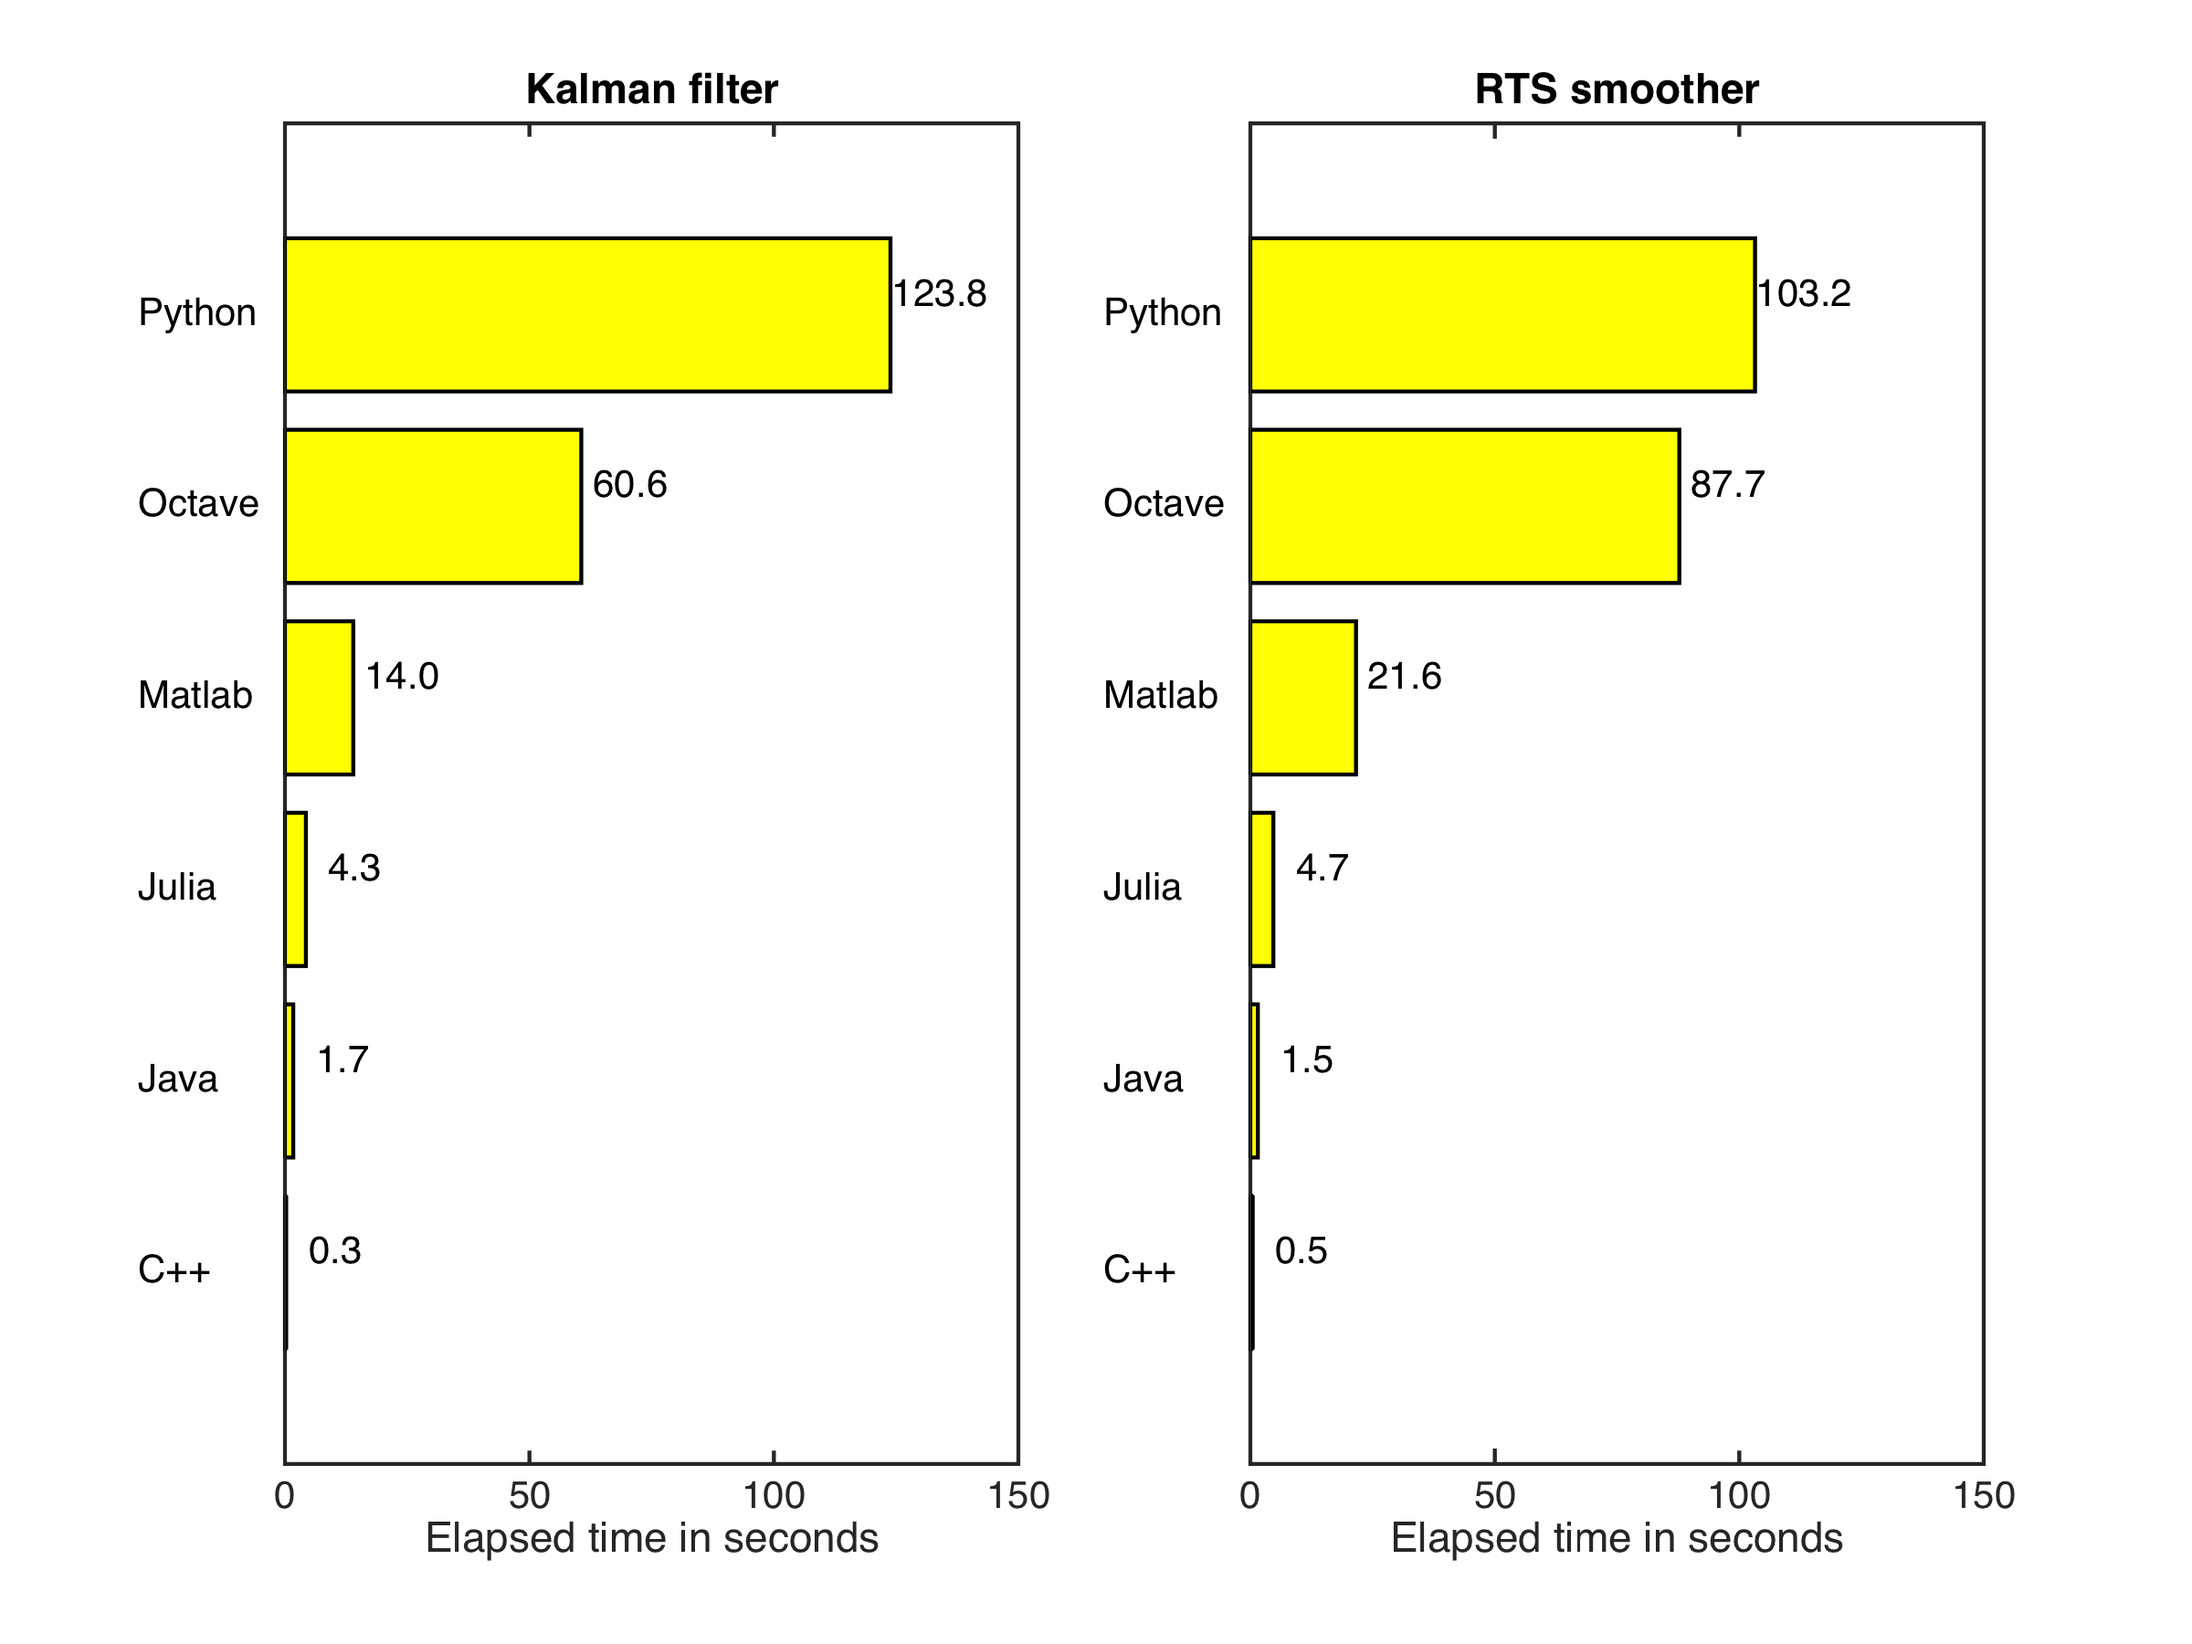
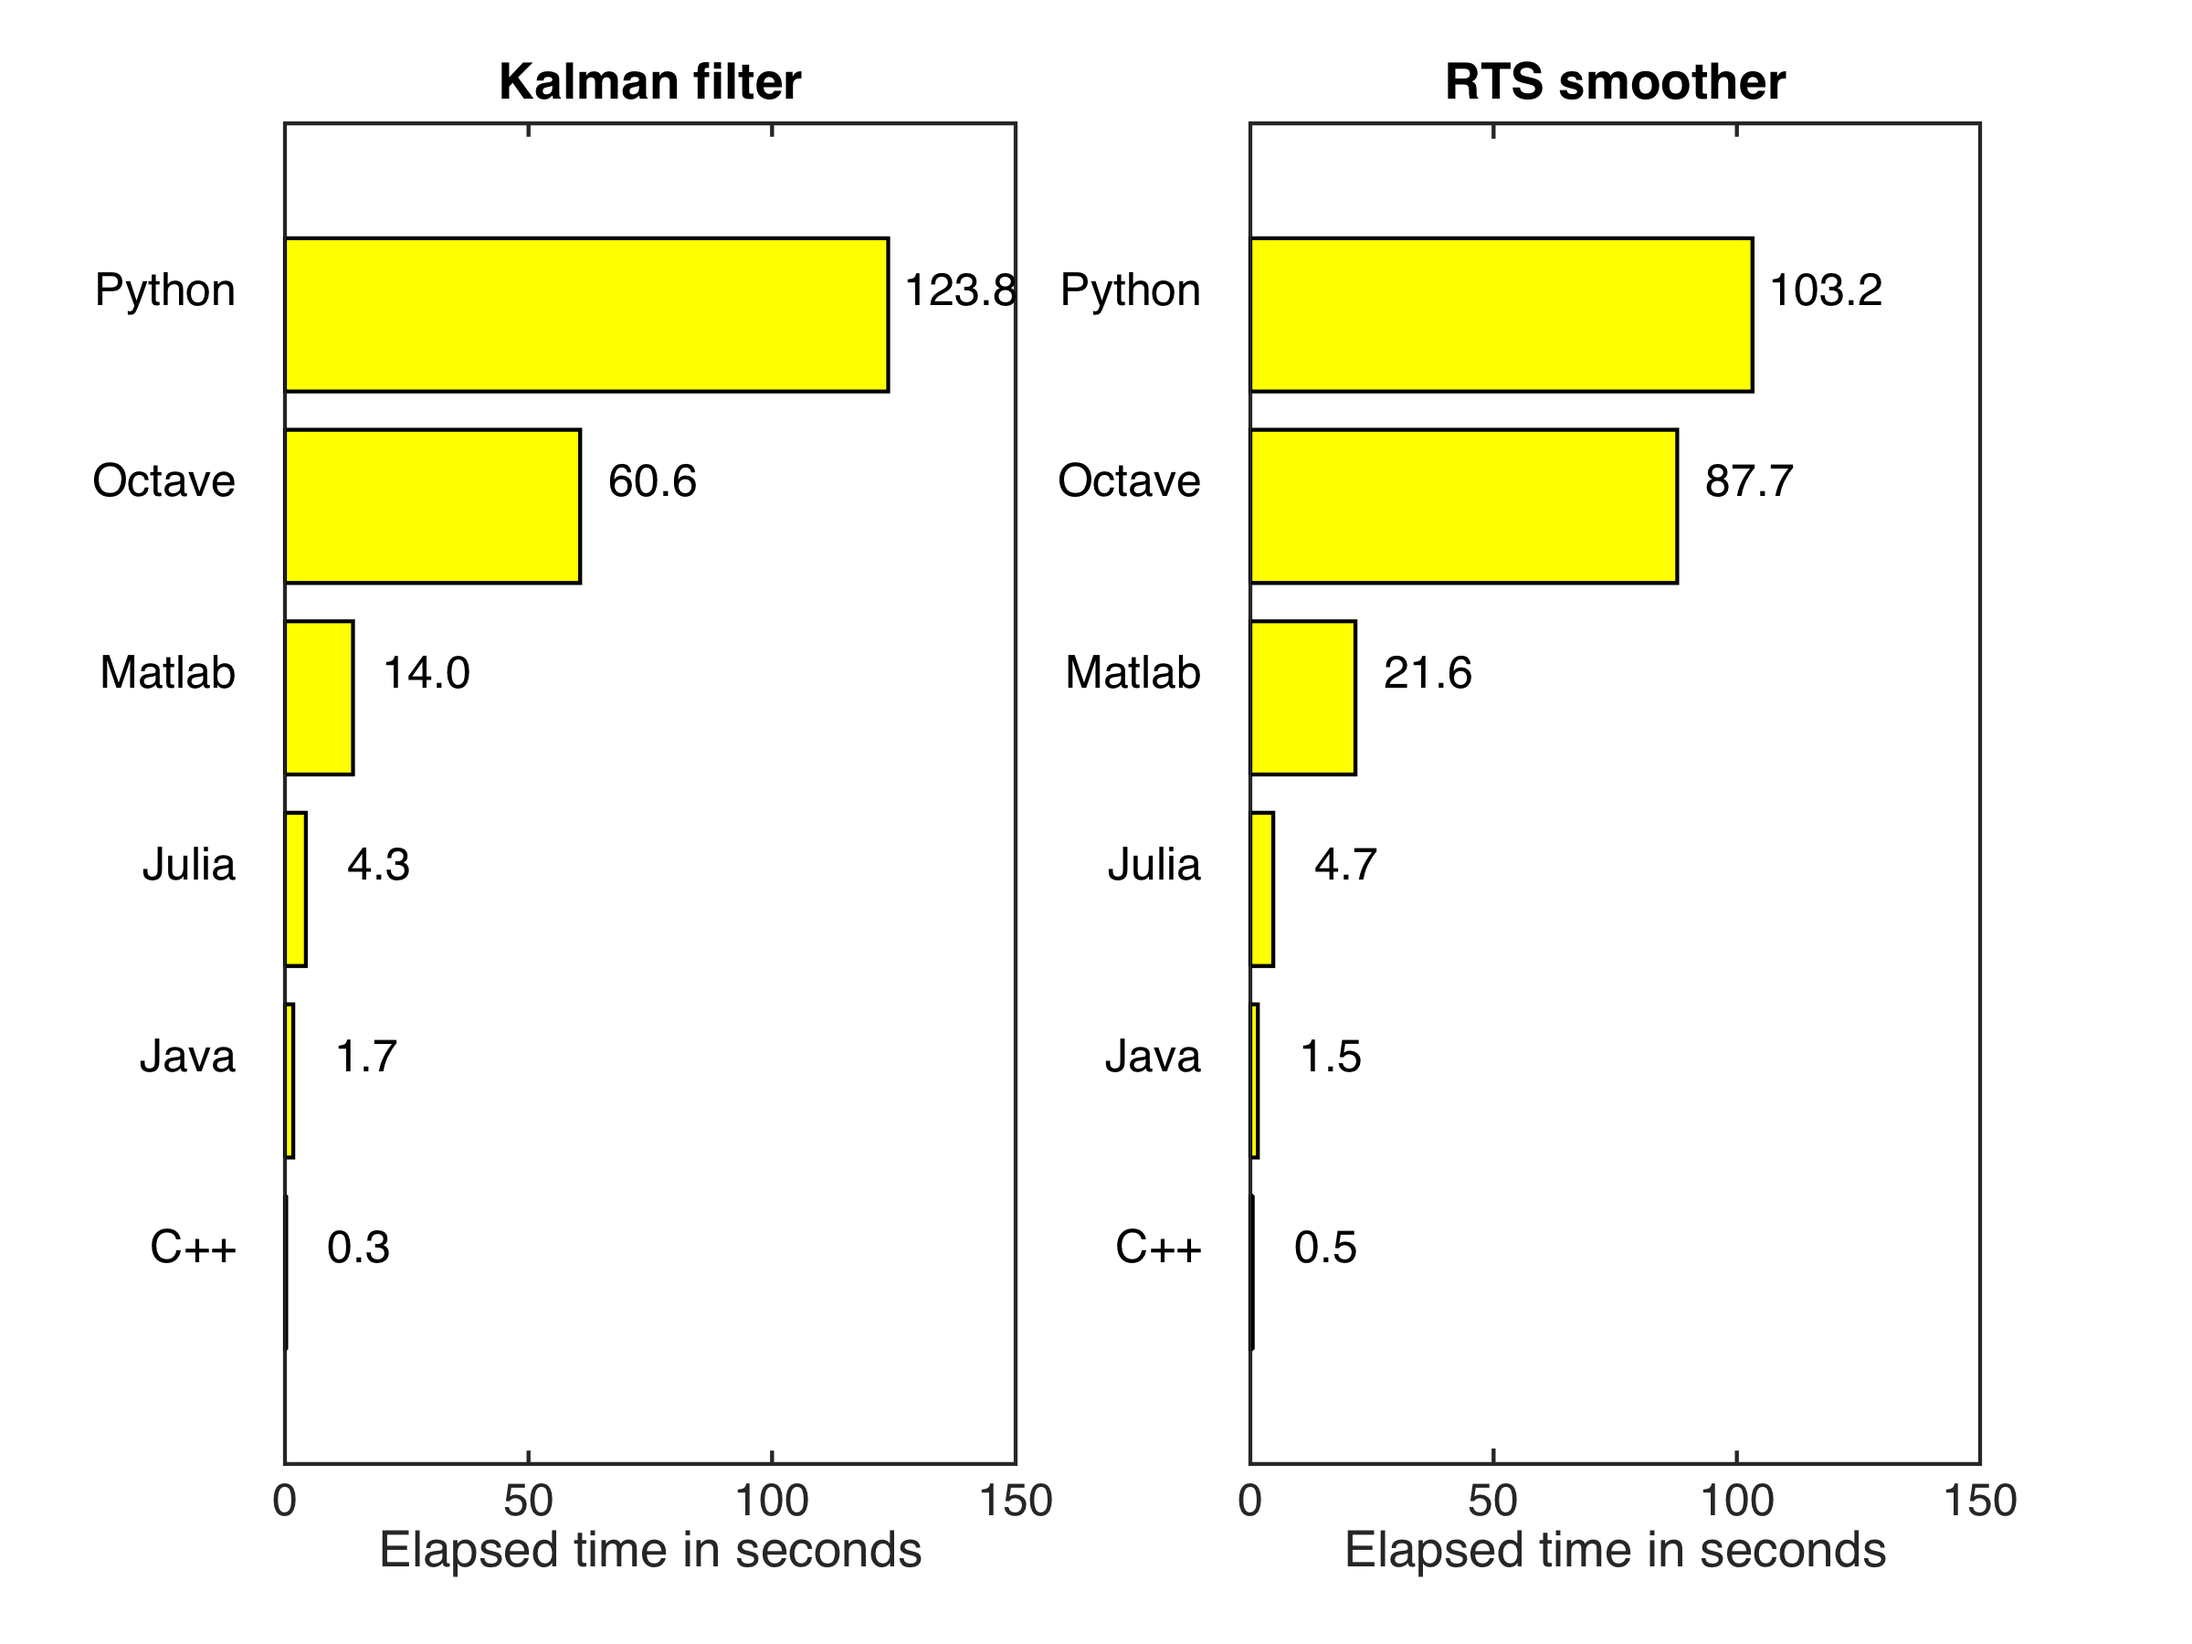
formatting and results

diff --git a/julialang-lecture.tex b/julialang-lecture.tex
@@ -1,5 +1,5 @@
-%\documentclass[xcolor=svgnames,english,presentation]{beamer}
-\documentclass[xcolor=svgnames,english,handout]{beamer}
+\documentclass[xcolor=svgnames,english,presentation]{beamer}
+%\documentclass[xcolor=svgnames,english,handout]{beamer}
 
 %\usepackage{againframetitle}
 %\aftOptions{style=NumberedLast}
@@ -148,7 +148,6 @@
   \item \alert{Modern programming concepts} found in Python and Lisp, but not in Matlab.
   \item \alert{Multiple dispatching} (kind of polymorphism).
   \item \alert{Operator overloading} (operators and functions).
-  \item However, \alert{no object-oriented programming} constructs.
   \begin{itemize}[<+->]       
   \item $\Rightarrow$ {\it Demo}
   \end{itemize}
@@ -159,20 +158,26 @@
 \begin{frame}
   \frametitle{Performance I}
   \centering
+  Performance comparison from \url{http://julialang.org/}: 
+
+  \vspace{0.5cm}
+
   \includegraphics[width=\textwidth]{perf}
 \end{frame}
 
 \begin{frame}
   \frametitle{Performance II}
   \centering
-  \includegraphics[width=0.8\textwidth]{kf-benchmark/times}
+  \includegraphics[width=0.7\textwidth]{kf-benchmark/times}
+
+  \alert{Relative computation time (filter + smoother):}
 
   \begin{tabular}{|c|c|c|c|c|c|}
   \hline
-  C++     & Java    & Julia   & Matlab  & Octave  & Python  \\ 
+  {\bf C++}     & {\bf Java}    & {\bf Julia}   & {\bf Matlab}  & {\bf Octave}  & {\bf Python}  \\ 
   \hline
-1       & 4       & 12      & 48      & 199     & 304     \\ 
-  \hline
+1       & 4       & 12      & 48      & 199     & 304 \\
+\hline
   \end{tabular}
 \end{frame}
 
@@ -180,14 +185,14 @@
   \frametitle{Quick practical experiences}
 
   \begin{itemize}[<+->]
-  \item \alert{Transliteration from Matlab} is very easy (with performance catches).
-  \item Faster than \alert{Matlab}, but loses to \alert{C++ and Java}.
-  \item Much faster than \alert{Python or Octave} (no surprise).
-  \item Some \alert{good programming features} (e.g. proper lists).
-  \item \alert{No objects or classes!}
-  \item Programming environment quite \alert{clumsy to get working}.
-  \item \alert{Plotting features are just awful}.
-  \item \alert{No proper IDEs}.
+  \item[\textcolor{green}\checkmark] \alert{Transliteration from Matlab} is very easy (with performance catches).
+  \item[\textcolor{green}\checkmark] Faster than \alert{Matlab}, but loses to \alert{C++ and Java}.
+  \item[\textcolor{green}\checkmark] Much faster than \alert{Python or Octave} (no surprise).
+  \item[\textcolor{green}\checkmark] Some \alert{good programming features} (proper lists, functional programming, multiple dispaching, \ldots).
+  \item[\textcolor{red}\checkmark] \alert{No objects or classes!}
+  \item[\textcolor{red}\checkmark] Programming environment quite \alert{clumsy to get working}.
+  \item[\textcolor{red}\checkmark] \alert{Plotting features} are just awful.
+  \item[\textcolor{red}\checkmark] No proper \alert{IDEs}.
   \end{itemize}
 
 \end{frame}

diff --git a/kf-benchmark/show_results.m b/kf-benchmark/show_results.m
@@ -7,7 +7,6 @@ s_times = [0.490346 1.543 4.710070576 21.610301 87.7424 103.221923113];
 
 clf;
 
-
 for i=1:2
     subplot(1,2,i);
     
@@ -22,20 +21,25 @@ for i=1:2
 
     h = barh(x,y) ; % create bar
     set(h,'FaceColor',[1 1 0]);
+    set(gca,'FontSize',12)
 
     th = [];
     lbl = [];
     for i=1:numel(y), % create annotations
       % store the handles for later use
-      th(i) = text(y(i)+10,x(i),sprintf('%.1f',y(i))) ;
-      lbl(i) = text(-30,x(i),names{i}) ;
+      th(i) = text(y(i)+15,x(i),sprintf('%.1f',y(i))) ;
+      lbl(i) = text(-10,x(i),names{i}) ;
     end
     set(gca,'YTick',[])
+    
     xlabel('Elapsed time in seconds');
 
     % center all annotations at once using the handles
     set(th,'horizontalalignment','center', ...
-    'verticalalignment','bottom') ; 
+    'verticalalignment','bottom','FontSize',12) ; 
+
+    set(lbl,'horizontalalignment','right', ...
+    'verticalalignment','bottom','FontSize',12) ; 
 
     title(titl);
 end
